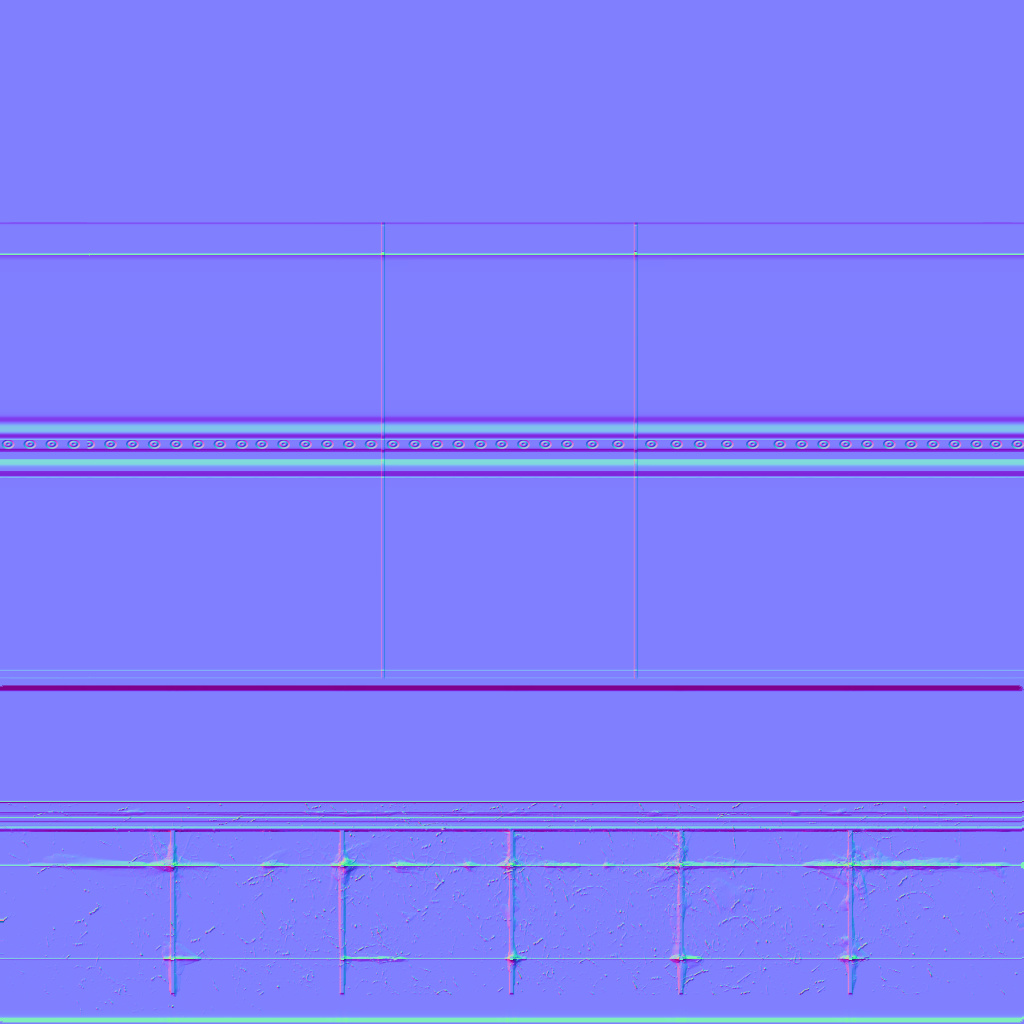
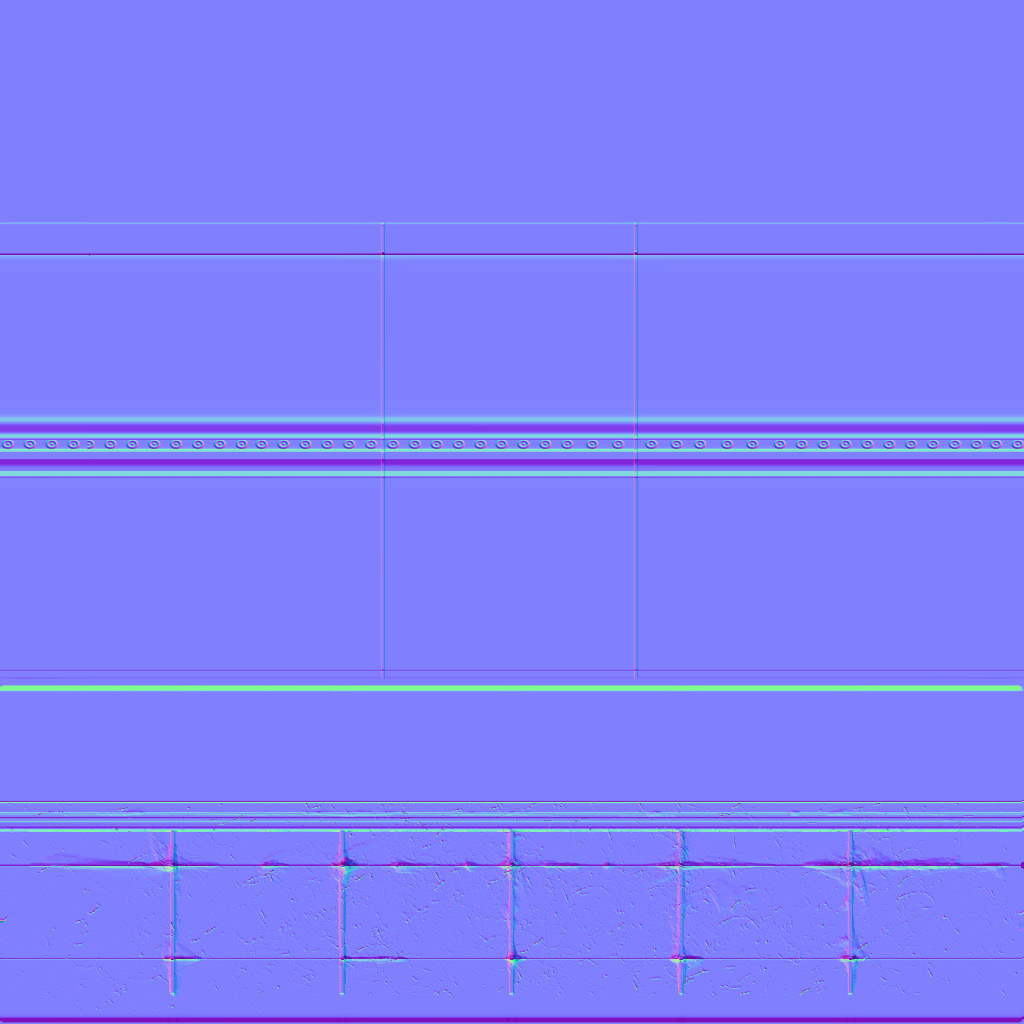
Make metallic/roughness work for sponza example

diff --git a/readerwriter/LoadSceneGLTF.cpp b/readerwriter/LoadSceneGLTF.cpp
@@ -88,6 +88,8 @@ namespace osgVerse
                 int size = attrAccessor.count; if (!size) continue;
 
                 int copySize = size * (compSize * compNum);
+                //std::cout << attrib.first << ": Size = " << size << ", Components = " << compNum
+                //          << ", ComponentBytes = " << compSize << std::endl;
                 if (attrib.first.compare("POSITION") == 0 && compSize == 4 && compNum == 3)
                 {
                     osg::Vec3Array* va = new osg::Vec3Array(size);
@@ -169,7 +171,7 @@ namespace osgVerse
                         memcpy(&(*de)[0], &indexBuffer.data[indexView.byteOffset], size * compSize);
                     }
                     break;
-                default: continue;
+                default: OSG_WARN << "[LoaderGLTF] Unknown size " << compSize << std::endl; continue;
                 }
             }
 
@@ -182,23 +184,23 @@ namespace osgVerse
             case TINYGLTF_MODE_TRIANGLES: p->setMode(GL_TRIANGLES); break;
             case TINYGLTF_MODE_TRIANGLE_STRIP: p->setMode(GL_TRIANGLE_STRIP); break;
             case TINYGLTF_MODE_TRIANGLE_FAN: p->setMode(GL_TRIANGLE_FAN); break;
-            default: continue;
+            default: OSG_WARN << "[LoaderGLTF] Unknown type " << primitive.mode << std::endl; continue;
             }
-            geom->addPrimitiveSet(p.get());
 
+            geom->addPrimitiveSet(p.get());
+            geode->addDrawable(geom.get());
             if (primitive.material >= 0)
             {
                 tinygltf::Material& material = _modelDef.materials[primitive.material];
                 createMaterial(geom->getOrCreateStateSet(), material);
             }
-            geode->addDrawable(geom.get());
         }
         return true;
     }
 
     void LoaderGLTF::createMaterial(osg::StateSet* ss, tinygltf::Material material)
     {
-        // FIXME: Shininess = inv(Roughness), Ambient = Occlusion...
+        // Shininess(RGB) = Occlusion/Roughness/Metallic, Ambient = Occlusion
         int baseID = material.pbrMetallicRoughness.baseColorTexture.index;
         int roughnessID = material.pbrMetallicRoughness.metallicRoughnessTexture.index;
         int normalID = material.normalTexture.index;
@@ -231,26 +233,30 @@ namespace osgVerse
         else if (imageSrc.component == 2) format = GL_RG;
         else if (imageSrc.component == 3) format = GL_RGB;
 
-        osg::Texture2D* tex2D = _textureMap[tex.source].get();
-        if (!tex2D || u == 1)  // FIXME: dont know why but normal-maps can't be shared?
+        osg::ref_ptr<osg::Image> image2D = _imageMap[tex.source].get();
+        if (!image2D)
         {
+            //std::cout << name << ": " << imageSrc.uri << ", Size = "
+            //          << imageSrc.width << "x" << imageSrc.height << "\n";
+
             osg::ref_ptr<osg::Image> image = new osg::Image;
             image->allocateImage(imageSrc.width, imageSrc.height, 1, format, type);
             image->setInternalTextureFormat(imageSrc.component);
             memcpy(image->data(), &imageSrc.image[0], image->getTotalSizeInBytes());
-
-            tex2D = new osg::Texture2D;
-            tex2D->setResizeNonPowerOfTwoHint(false);
-            tex2D->setWrap(osg::Texture2D::WRAP_S, osg::Texture2D::REPEAT);
-            tex2D->setWrap(osg::Texture2D::WRAP_T, osg::Texture2D::REPEAT);
-            tex2D->setFilter(osg::Texture2D::MIN_FILTER, osg::Texture2D::LINEAR_MIPMAP_LINEAR);
-            tex2D->setFilter(osg::Texture2D::MAG_FILTER, osg::Texture2D::LINEAR);
-            tex2D->setImage(image.get()); tex2D->setName(imageSrc.uri);
-
-            _textureMap[tex.source] = tex2D;
+            
+            image2D = image.get(); image2D->setName(imageSrc.uri);
+            _imageMap[tex.source] = image2D;
             OSG_NOTICE << "[LoaderGLTF] " << imageSrc.uri << " loaded for " << name << std::endl;
         }
-        ss->setTextureAttributeAndModes(u, tex2D);
+
+        osg::ref_ptr<osg::Texture2D> tex2D = new osg::Texture2D;
+        tex2D->setResizeNonPowerOfTwoHint(false);
+        tex2D->setWrap(osg::Texture2D::WRAP_S, osg::Texture2D::REPEAT);
+        tex2D->setWrap(osg::Texture2D::WRAP_T, osg::Texture2D::REPEAT);
+        tex2D->setFilter(osg::Texture2D::MIN_FILTER, osg::Texture2D::LINEAR_MIPMAP_LINEAR);
+        tex2D->setFilter(osg::Texture2D::MAG_FILTER, osg::Texture2D::LINEAR);
+        tex2D->setImage(image2D.get()); tex2D->setName(imageSrc.uri);
+        ss->setTextureAttributeAndModes(u, tex2D.get());
         //ss->addUniform(new osg::Uniform(name.c_str(), u));
     }
 

diff --git a/pipeline/Pipeline.cpp b/pipeline/Pipeline.cpp
@@ -743,17 +743,16 @@ namespace osgVerse
 
     void Pipeline::applyDefaultInputStateSet(osg::StateSet* ss)
     {
-        static osg::ref_ptr<osg::Texture2D> tex0 = createDefaultTexture(osg::Vec4(0.0f, 0.0f, 0.0f, 0.0f));
-        static osg::ref_ptr<osg::Texture2D> tex1 = createDefaultTexture(osg::Vec4(1.0f, 1.0f, 1.0f, 1.0f));
-
+        osg::Vec4 color0 = osg::Vec4(0.0f, 0.0f, 0.0f, 0.0f);
+        osg::Vec4 color1 = osg::Vec4(1.0f, 1.0f, 1.0f, 1.0f);
         ss->setMode(GL_BLEND, osg::StateAttribute::OFF | osg::StateAttribute::OVERRIDE);
-        ss->setTextureAttributeAndModes(0, tex1.get());  // DiffuseMap
-        ss->setTextureAttributeAndModes(1, tex0.get());  // NormalMap
-        ss->setTextureAttributeAndModes(2, tex1.get());  // SpecularMap
-        ss->setTextureAttributeAndModes(3, tex0.get());  // ShininessMap
-        ss->setTextureAttributeAndModes(4, tex0.get());  // AmbientMap
-        ss->setTextureAttributeAndModes(5, tex0.get());  // EmissiveMap
-        ss->setTextureAttributeAndModes(6, tex0.get());  // ReflectionMap
+        ss->setTextureAttributeAndModes(0, createDefaultTexture(color1));  // DiffuseMap
+        ss->setTextureAttributeAndModes(1, createDefaultTexture(color0));  // NormalMap
+        ss->setTextureAttributeAndModes(2, createDefaultTexture(color1));  // SpecularMap
+        ss->setTextureAttributeAndModes(3, createDefaultTexture(color1));  // ShininessMap
+        ss->setTextureAttributeAndModes(4, createDefaultTexture(color0));  // AmbientMap
+        ss->setTextureAttributeAndModes(5, createDefaultTexture(color0));  // EmissiveMap
+        ss->setTextureAttributeAndModes(6, createDefaultTexture(color0));  // ReflectionMap
         for (int i = 0; i < 7; ++i) ss->addUniform(new osg::Uniform(uniformNames[i].c_str(), i));
         ss->addUniform(new osg::Uniform("ModelIndicator", 0.0f));
 

diff --git a/pipeline/Pipeline.h b/pipeline/Pipeline.h
@@ -56,8 +56,8 @@ namespace osgVerse
         - sampler2d DiffuseMap: diffuse/albedo RGB texture of input scene
         - sampler2d NormalMap: tangent-space normal texture of input scene
         - sampler2d SpecularMap: specular RGB texture of input scene
-        - sampler2d ShininessMap: roughness+metallic (R+G) texture of input scene
-        - sampler2d AmbientMap: ambient occlusion R texture of input scene
+        - sampler2d ShininessMap: occlusion/roughness/metallic (RGB) texture of input scene
+        - sampler2d AmbientMap: ambient texture of input scene (FIXME: NOT USED)
         - sampler2d EmissiveMap: emissive RGB texture of input scene
         - sampler2d ReflectionMap: reflection RGB texture of input scene
         - mat4 <StageName>Matrices: matrices of specified input stage for rebuilding vertex attributes

diff --git a/readerwriter/LoadSceneGLTF.h b/readerwriter/LoadSceneGLTF.h
@@ -35,7 +35,7 @@ namespace osgVerse
         void createMaterial(osg::StateSet* ss, tinygltf::Material mat);
         void createTexture(osg::StateSet* ss, int u, const std::string& name, tinygltf::Texture& tex);
 
-        std::map<int, osg::observer_ptr<osg::Texture2D>> _textureMap;
+        std::map<int, osg::observer_ptr<osg::Image>> _imageMap;
         osg::ref_ptr<osg::Group> _root;
         tinygltf::Model _modelDef;
         std::string _workingDir;

diff --git a/README.md b/README.md
@@ -76,3 +76,23 @@ Our project is already tested on graphics cards listed as below:
 2. shaders: Shaders for osgVerse rendering pipeline use.
 3. skyboxes: Skyboxes for test use, may be one HDR image or 6 cubemaps.
 4. misc: Chinese IME CiKu files, font files, ...
+
+#### CMake options
+| Option                      | Type    | Default Value | Notes |
+|-----------------------------|---------|---------------------|-------|
+| OSG_INCLUDE_DIR             | Path    | (Required)    | Set to path of osg/Node |
+| OSG_BUILD_INCLUDE_DIR       | Path    | (Required)    | Set to path of osg/Version |
+| OSG_LIB_DIR                 | Path    | (Required)    | Set to path of libosg.a or osg.lib |
+| BULLET_INCLUDE_DIR          | Path    |               | Set to path of btBulletDynamicsCommon.h |
+| BULLET_LIB_DIR              | Path    |               | Set to path of libBullet3Dynamics.a or BulletDynamics.lib |
+| OSGEARTH_INCLUDE_DIR        | Path    |               | Set to path of osgEarth/EarthManipulator |
+| OSGEARTH_BUILD_INCLUDE_DIR  | Path    |               | Set to path of osgEarth/BuildConfig |
+| OSGEARTH_LIB_DIR            | Path    |               | Set to path of libosgEarth.so or osgEarth.lib |
+| Qt5_DIR                     | Path    |               | Set to path of <qt_dist>/lib/cmake/Qt5 |
+| VERSE_STATIC_BUILD          | Boolean | OFF           | Enable static build of osgVerse |
+| VERSE_USE_OSG_STATIC        | Boolean | OFF           | Use static build of OpenSceneGraph (will force osgVerse to be static) |
+| VERSE_WITH_DWARF            | Boolean | OFF           | Enable detailed debug-info and symbols. 'libdw-dev' must be installed |
+| VERSE_USE_GLIBCXX11_ABI     | Boolean | ON            | Enable to use libraries built with GCC compiler newer than 4.9 |
+
+#### Screenshots
+![Image](https://gitee.com/xarray/osgverse/raw/master/assets/misc/sponza.jpg)
